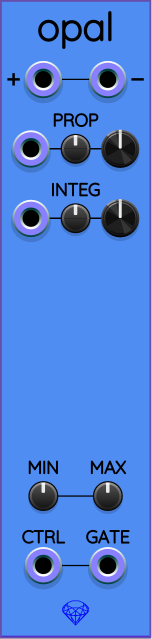
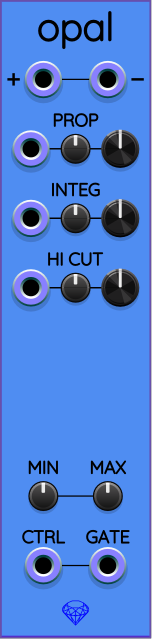
Opal: added HI CUT control group.
HI CUT adjusts the corner frequency of two filters inside
the feedback controller: the input filter that conditions
the inbound error signal, and the output filter that
smooths out any sudden changes in the control signal.

By default, the corner frequency is 16 Hz, represented by
the knob value 0. The knob is allowed any value in the range
[-4, +4], with the default value 0. This results in a frequency
range of 1 Hz to 256 Hz.

When the HI CUT attenuverter is set to +100%, the HI CUT
CV input acts on a V/OCT scale.

Changed region(s): [[0.0789, 0.3865, 0.9211, 0.5055]]

diff --git a/src/opal_vcv.cpp b/src/opal_vcv.cpp
@@ -14,6 +14,8 @@ namespace Sapphire
             INTEGRAL_ATTEN,
             MIN_PARAM,
             MAX_PARAM,
+            HICUT_PARAM,
+            HICUT_ATTEN,
             PARAMS_LEN
         };
 
@@ -23,6 +25,7 @@ namespace Sapphire
             NEG_INPUT,
             PROPORTIONAL_CV_INPUT,
             INTEGRAL_CV_INPUT,
+            HICUT_CV_INPUT,
             INPUTS_LEN
         };
 
@@ -63,6 +66,7 @@ namespace Sapphire
                 configOutput(GATE_OUTPUT, "Gate");
                 configControlGroup("Proportional response", PROPORTIONAL_PARAM, PROPORTIONAL_ATTEN, PROPORTIONAL_CV_INPUT);
                 configControlGroup("Integral response", INTEGRAL_PARAM, INTEGRAL_ATTEN, INTEGRAL_CV_INPUT);
+                configControlGroup("High cutoff frequency", HICUT_PARAM, HICUT_ATTEN, HICUT_CV_INPUT, -4, +4, 0, " Hz", 2, FeedbackControllerDefaultHiCutHz);
                 initialize();
             }
 
@@ -116,6 +120,7 @@ namespace Sapphire
                     float vneg = 0;
                     float cvProp = 0;
                     float cvInteg = 0;
+                    float cvHiCut = 0;
                     outputs[CONTROL_OUTPUT].setChannels(nc);
                     outputs[GATE_OUTPUT].setChannels(nc);
                     for (int c = 0; c < nc; ++c)
@@ -129,10 +134,14 @@ namespace Sapphire
                         nextChannelInputVoltage(cvInteg, INTEGRAL_CV_INPUT, c);
                         float integ = cvGetControlValue(INTEGRAL_PARAM, INTEGRAL_ATTEN, cvInteg, -1, +1);
 
+                        nextChannelInputVoltage(cvHiCut, HICUT_CV_INPUT, c);
+                        float hicutVoct = cvGetVoltPerOctave(HICUT_PARAM, HICUT_ATTEN, cvHiCut, -4, +4);
+
                         fbc[c].setOutputRange(vmin, vmax);
                         fbc[c].setProportionalFactor(prop);
                         fbc[c].setIntegralFactor(integ);
-                        auto f = fbc[c].process(vpos-vneg, args.sampleRate);
+                        fbc[c].setHiCutFrequency(hicutVoct);
+                        FeedbackControllerResult<float> f = fbc[c].process(vpos-vneg, args.sampleRate);
                         outputs[CONTROL_OUTPUT].setVoltage(f.response, c);
                         setOutputGate(f.bounded, c);
                     }
@@ -212,6 +221,7 @@ namespace Sapphire
                 addSapphireInput(NEG_INPUT, "neg_input");
                 addSapphireFlatControlGroup("proportional", PROPORTIONAL_PARAM, PROPORTIONAL_ATTEN, PROPORTIONAL_CV_INPUT);
                 addSapphireFlatControlGroup("integral", INTEGRAL_PARAM, INTEGRAL_ATTEN, INTEGRAL_CV_INPUT);
+                addSapphireFlatControlGroup("hicut", HICUT_PARAM, HICUT_ATTEN, HICUT_CV_INPUT);
                 addKnob<Trimpot>(MIN_PARAM, "min_knob");
                 addKnob<Trimpot>(MAX_PARAM, "max_knob");
                 addSapphireOutput(CONTROL_OUTPUT, "control_output");

diff --git a/src/sapphire_feedback_controller.hpp b/src/sapphire_feedback_controller.hpp
@@ -23,6 +23,7 @@ namespace Sapphire
 
 
     const int FeedbackControllerOutputLimit = 20;
+    constexpr float FeedbackControllerDefaultHiCutHz = 16;
 
 
     template <typename value_t>
@@ -35,6 +36,7 @@ namespace Sapphire
         value_t kIntegral;
         value_t accum;              // integral sum
         value_t response;           // holds previous output for limit detection
+        value_t hicut;              // lowpass filter corner frequency in Hz
 
         LoHiPassFilter<value_t> inFilter;
         LoHiPassFilter<value_t> outFilter;
@@ -47,6 +49,7 @@ namespace Sapphire
             setProportionalFactor();
             setIntegralFactor();
             setOutputRange(-FeedbackControllerOutputLimit, +FeedbackControllerOutputLimit);
+            setHiCutFrequency();
             initialize();
         }
 
@@ -71,6 +74,12 @@ namespace Sapphire
             kIntegral = TenToPower<value_t>(-(k + 1.35));
         }
 
+        void setHiCutFrequency(value_t knob = 0)
+        {
+            value_t k = std::clamp(knob, static_cast<value_t>(-4), static_cast<value_t>(+4));
+            hicut = FeedbackControllerDefaultHiCutHz * TwoToPower(k);
+        }
+
         void setOutputRange(value_t minLevel, value_t maxLevel)
         {
             if (maxLevel < minLevel)
@@ -90,7 +99,7 @@ namespace Sapphire
             static constexpr value_t sFraction = 0.95;    // hysteresis: stable below this fraction
             static constexpr value_t uFraction = 0.98;    // hysteresis: unstable above this fraction
 
-            inFilter.SetCutoffFrequency(100);
+            inFilter.SetCutoffFrequency(hicut);
             inFilter.Update(error, sampleRateHz);
             value_t smooth = inFilter.LoPass();
 
@@ -121,7 +130,7 @@ namespace Sapphire
             }
 
             value_t rough = std::clamp(-kProportional*(smooth + accum), vmin, vmax);
-            outFilter.SetCutoffFrequency(100);
+            outFilter.SetCutoffFrequency(hicut);
             outFilter.Update(rough, sampleRateHz);
             response = outFilter.LoPass();
             return FeedbackControllerResult<value_t>(response, unstableCountdown==0);

diff --git a/util/make_sapphire_svg.py b/util/make_sapphire_svg.py
@@ -1955,6 +1955,7 @@ def GenerateOpalPanel(cdict:Dict[str, ControlLayer]) -> int:
     yInputPorts = yRow.value(0)
     yProp = yRow.value(1)
     yInteg = yRow.value(2)
+    yHiCut = yRow.value(3)
     yMinMaxKnobs = yRow.value(6)
     yOutputPorts = yRow.value(7)
     dxPortPair = 6.5
@@ -1973,8 +1974,10 @@ def GenerateOpalPanel(cdict:Dict[str, ControlLayer]) -> int:
 
         AddFlatControlGroup(pl, controls, xmid, yProp, 'proportional')
         AddFlatControlGroup(pl, controls, xmid, yInteg, 'integral')
+        AddFlatControlGroup(pl, controls, xmid, yHiCut, 'hicut')
         pl.append(CenteredControlTextPath(font, 'PROP',  xmid, yProp - dyText))
         pl.append(CenteredControlTextPath(font, 'INTEG', xmid, yInteg - dyText))
+        pl.append(CenteredControlTextPath(font, 'HI CUT', xmid, yHiCut - dyText))
 
         controls.append(Component('min_knob', xmid - dxPortPair, yMinMaxKnobs))
         controls.append(Component('max_knob', xmid + dxPortPair, yMinMaxKnobs))

diff --git a/src/sapphire_panel.cpp b/src/sapphire_panel.cpp
@@ -240,6 +240,9 @@ namespace Sapphire
             {"_panel",                 {  30.480,  128.500}},
             {"control_output",         {   8.740,  114.000}},
             {"gate_output",            {  21.740,  114.000}},
+            {"hicut_atten",            {  15.240,   58.000}},
+            {"hicut_cv",               {   6.240,   58.000}},
+            {"hicut_knob",             {  24.240,   58.000}},
             {"integral_atten",         {  15.240,   44.000}},
             {"integral_cv",            {   6.240,   44.000}},
             {"integral_knob",          {  24.240,   44.000}},

diff --git a/src/sapphire_engine.hpp b/src/sapphire_engine.hpp
@@ -37,6 +37,12 @@ namespace Sapphire
     }
 
     template <typename value_t>
+    inline value_t TwoToPower(value_t x)
+    {
+        return std::pow(static_cast<value_t>(2), x);
+    }
+
+    template <typename value_t>
     inline value_t TenToPower(value_t x)
     {
         return std::pow(static_cast<value_t>(10), x);
